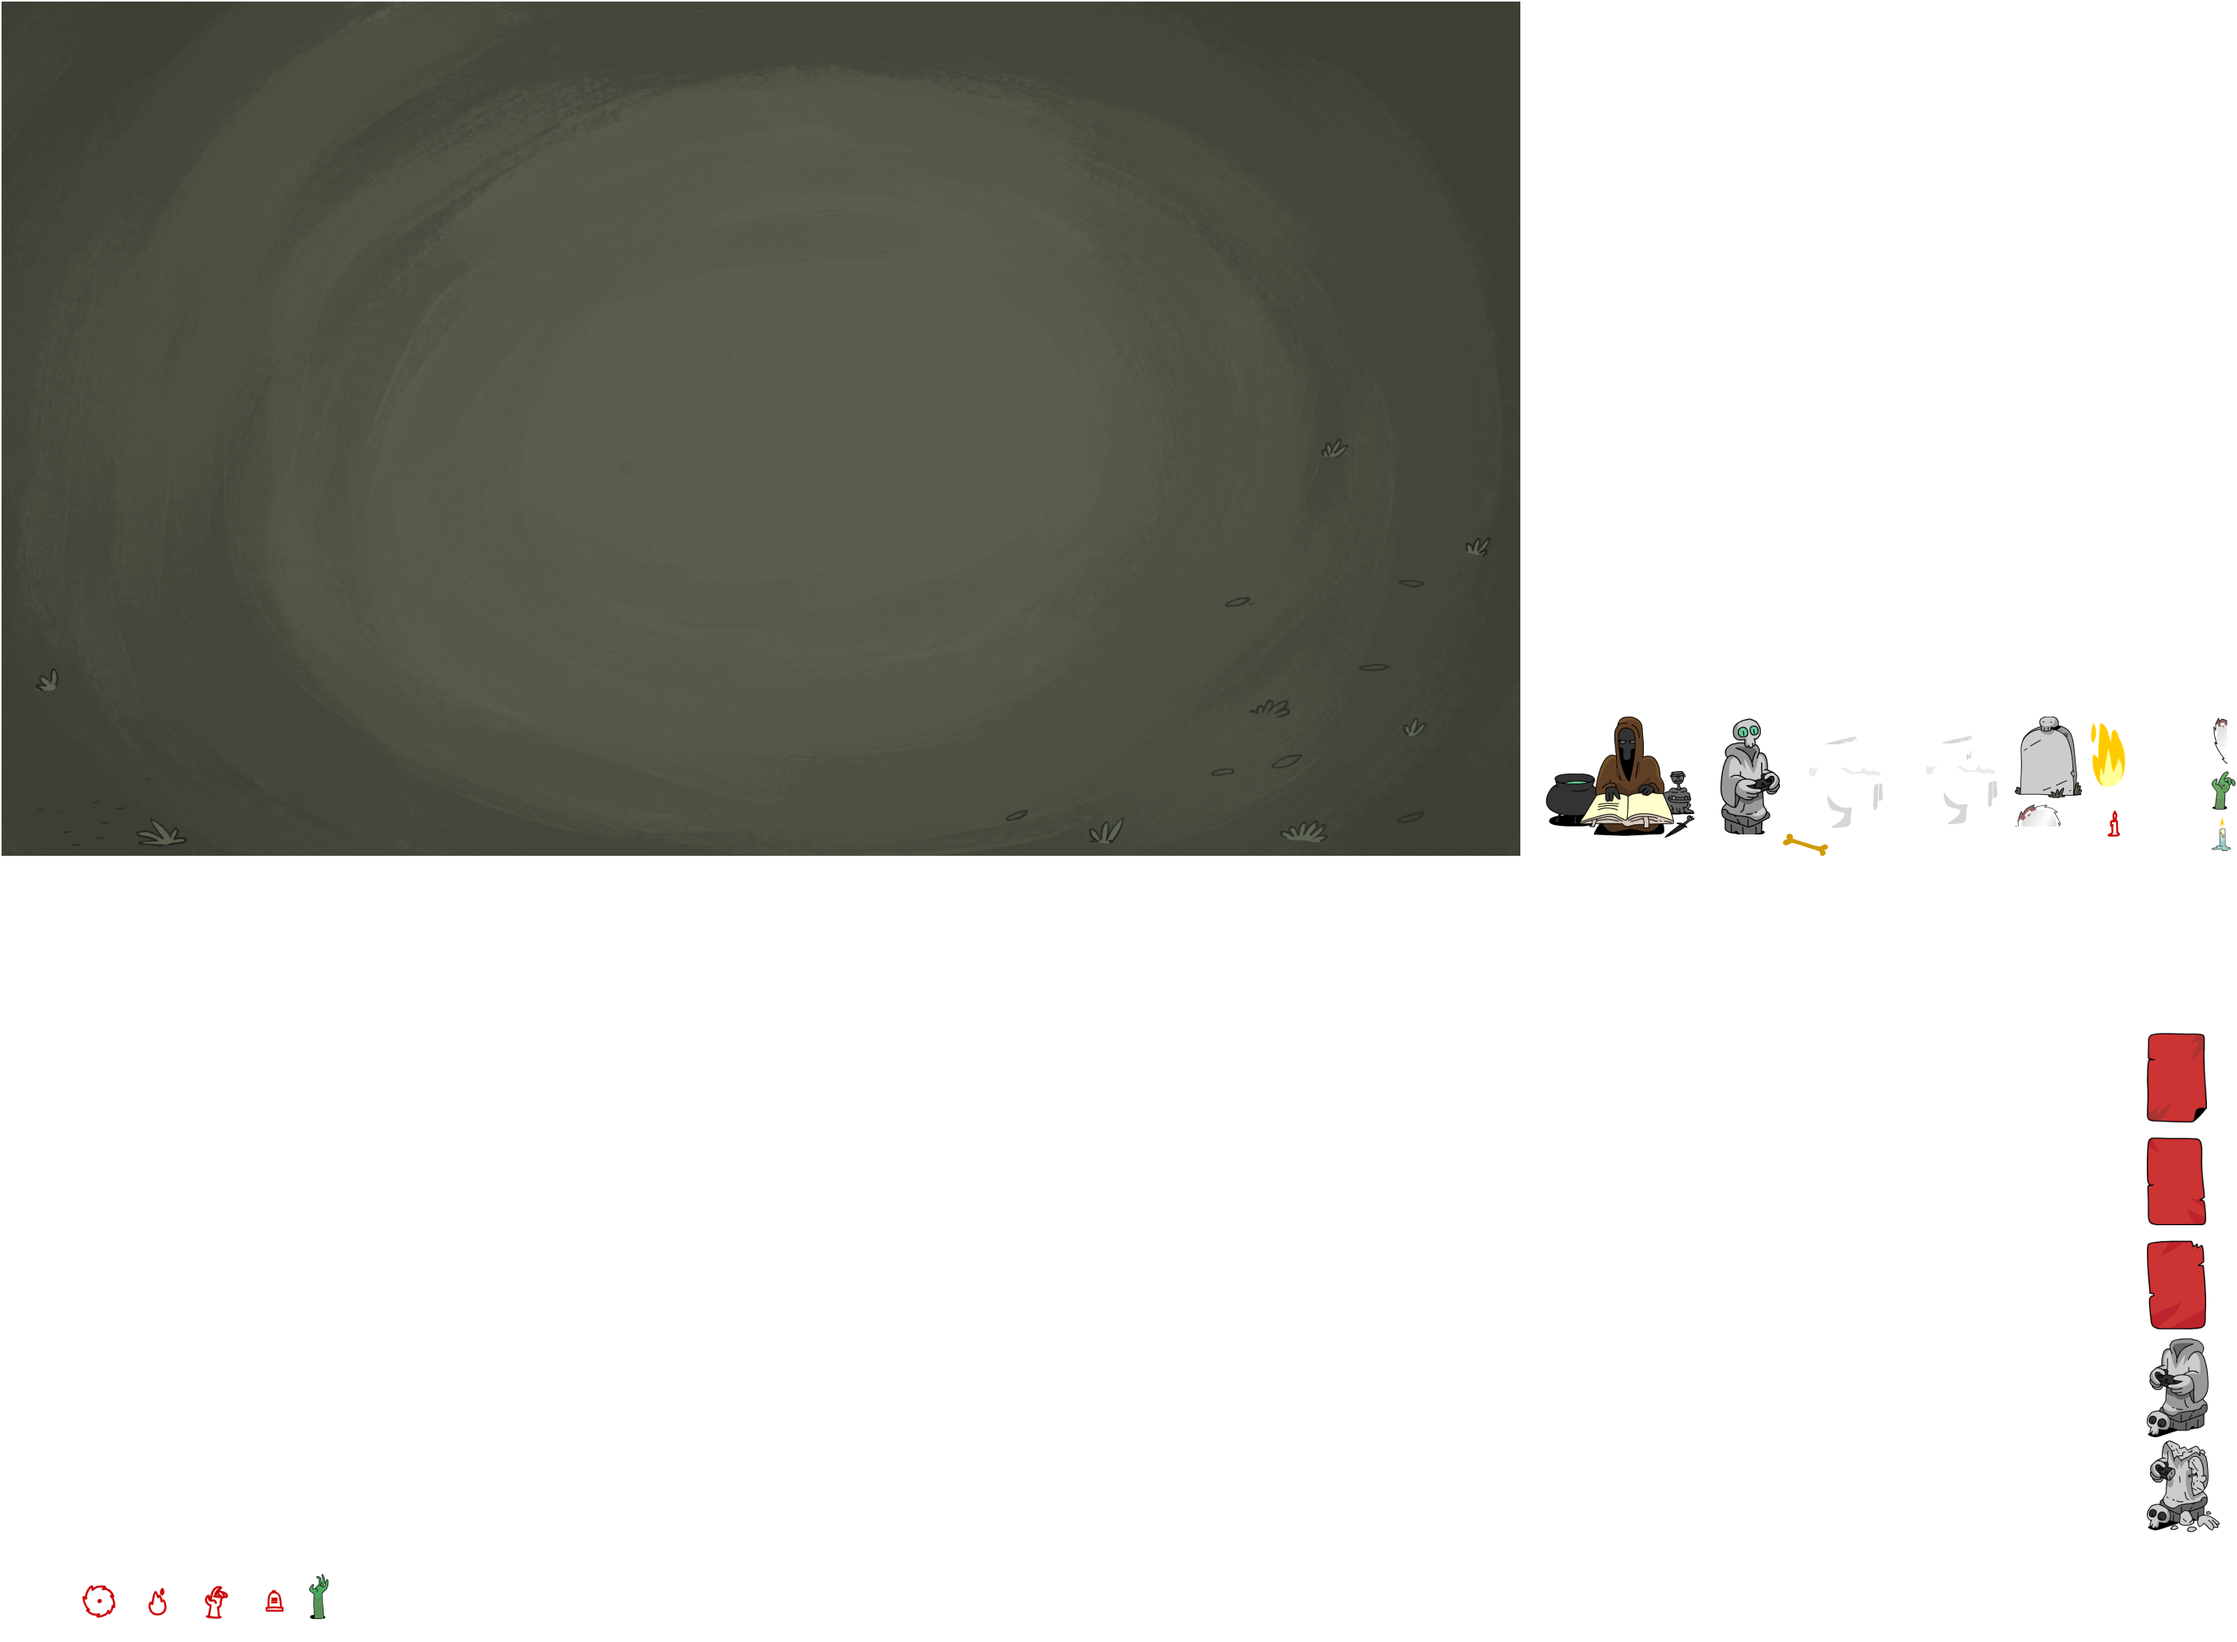
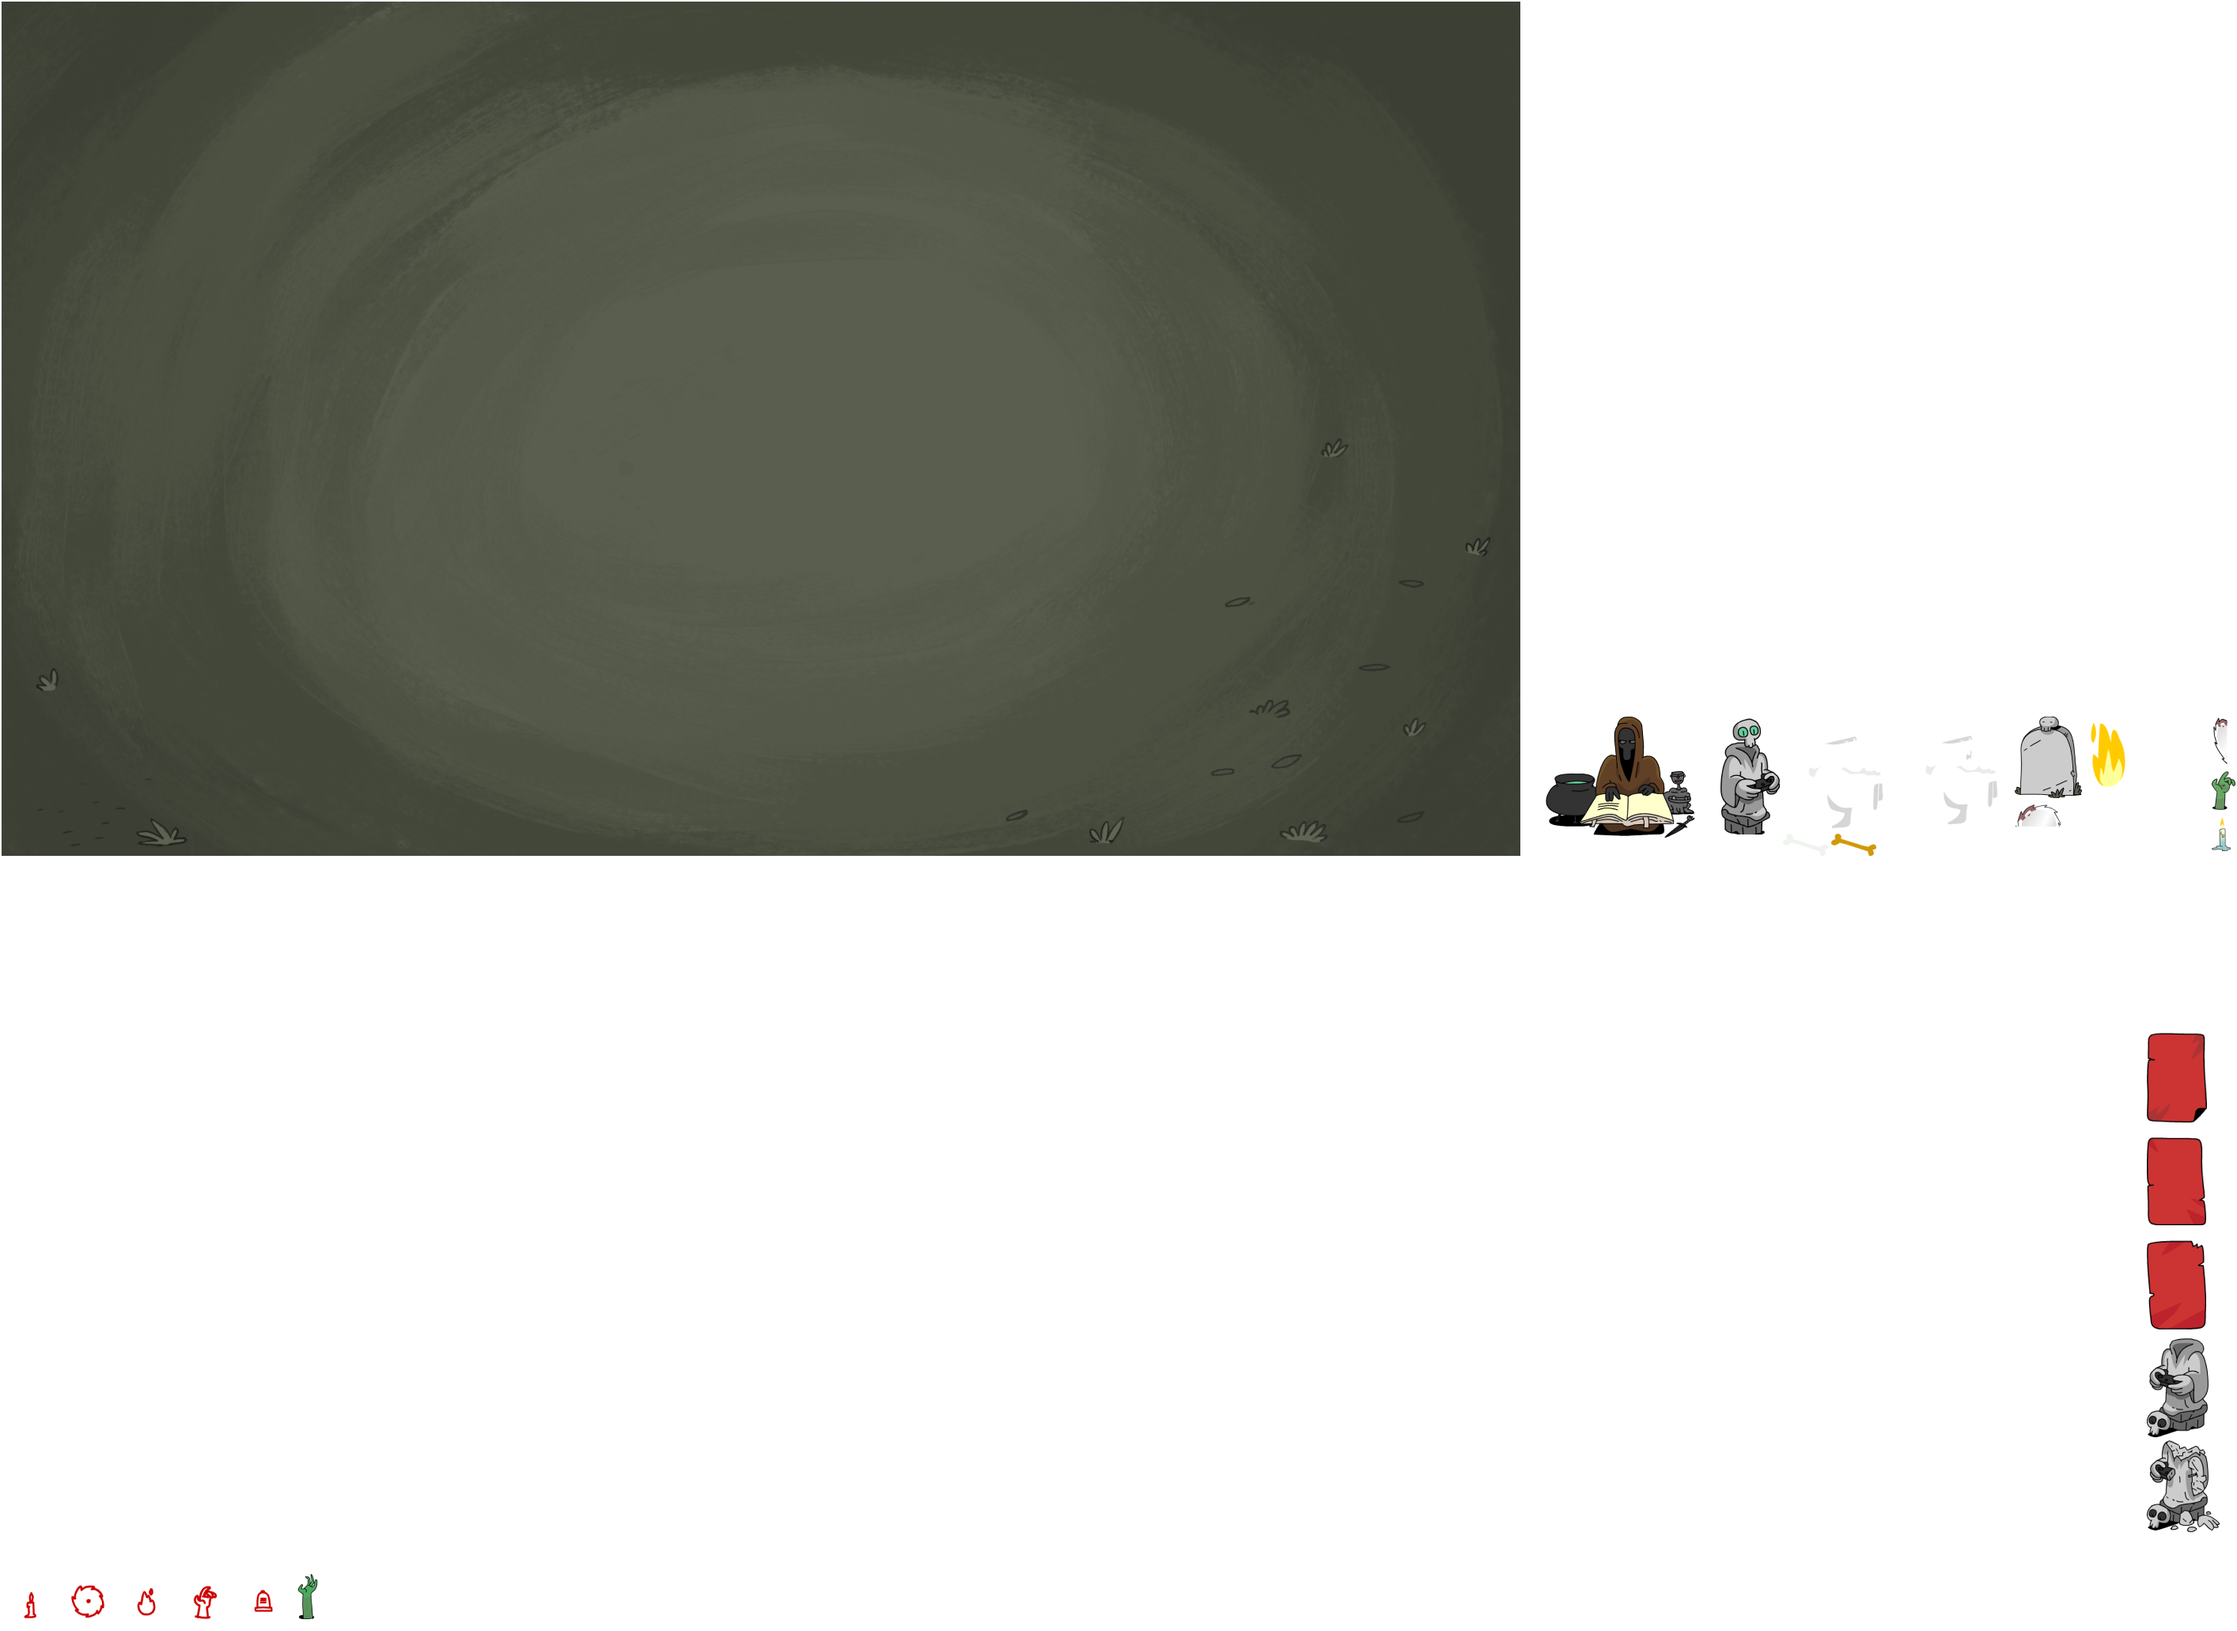
mvp

diff --git a/src/game/components/bone.ts b/src/game/components/bone.ts
@@ -1,0 +1,41 @@
+import { Actor, Entity, randomInRange, Sprite } from 'excalibur';
+import res from '@/res';
+import { Assets } from '@/game/resources/assets';
+import { TAGS } from '@/enums';
+import game from '@/game/game';
+import { easeInOutSine, lerp, random } from '@/game/utils';
+import type Statue from '@/game/components/statue';
+import type Stage from '@/game/scenes/Stage';
+import { bones } from '@/stores';
+
+export default class Bone extends Actor {
+	declare scene: Stage;
+
+	onInitialize() {
+		this.addTag(TAGS.Z_AXIS_SORT);
+		this.initGraphics();
+		this.moveToCaster();
+	}
+
+	private async moveToCaster() {
+		const startPos = this.pos.clone();
+		const caster = <Statue>(random.pickOne(<Entity[]>this.scene.world.queryTags([TAGS.STATUE]).entities));
+
+		await game.tween(progress => {
+			this.pos.x = lerp(startPos.x, caster.pos.x, easeInOutSine(progress));
+			this.pos.y = lerp(startPos.y, caster.pos.y, easeInOutSine(progress));
+		}, 500);
+
+		await game.tween(progress => {
+			this.graphics.opacity = 1 - easeInOutSine(progress);
+		}, 100);
+
+		bones.boneCollect();
+		this.kill();
+	}
+
+	private initGraphics() {
+		this.graphics.use(<Sprite>res.assets.getFrameSprite(Assets.BONE));
+		this.rotation = randomInRange(0, Math.PI * 2);
+	}
+}

diff --git a/src/game/components/bonus-bone.ts b/src/game/components/bonus-bone.ts
@@ -2,6 +2,7 @@ import { Actor, randomInRange, Sprite } from 'excalibur';
 import res from '@/res';
 import { Assets } from '@/game/resources/assets';
 import { TAGS } from '@/enums';
+import { bones } from '@/stores';
 
 export default class BonusBone extends Actor {
 	onInitialize() {
@@ -12,11 +13,14 @@ export default class BonusBone extends Actor {
 	}
 
 	private registerEvents() {
-		this.on('pointerdown', () => this.kill());
+		this.once('pointerdown', () => {
+			bones.bonusBoneCollect();
+			this.kill();
+		});
 	}
 
 	private initGraphics() {
-		this.graphics.use(<Sprite>res.assets.getFrameSprite(Assets.BONE));
+		this.graphics.use(<Sprite>res.assets.getFrameSprite(Assets.GOLDEN_BONE));
 		this.rotation = randomInRange(0, Math.PI * 2);
 	}
 }

diff --git a/src/stores.ts b/src/stores.ts
@@ -2,6 +2,7 @@ import { get, writable } from 'svelte/store';
 import { SvelteComponent } from 'svelte';
 import StartMenu from '@/ui/screens/StartMenu.svelte';
 import Game from '@/ui/screens/Game.svelte';
+import config from '@/config';
 
 export const screen = (() => {
 	const { subscribe, set } = writable<typeof SvelteComponent>();
@@ -64,5 +65,15 @@ export const constructionsPlaceAvailable = (() => {
 
 	return {
 		subscribe,
+	};
+})();
+
+export const bones = (() => {
+	const { subscribe, update } = writable(50);
+
+	return {
+		subscribe,
+		bonusBoneCollect: () => update(value => (value + config.stage.bonusBoneCost)),
+		boneCollect: () => update(value => (value + config.stage.boneCost)),
 	};
 })();

diff --git a/src/ui/components/Bones.svelte b/src/ui/components/Bones.svelte
@@ -2,21 +2,25 @@
 	import Sprite from '@/ui/components/Sprite.svelte';
 	import res from '@/res';
 	import { Assets } from '@/game/resources/assets';
+	import { bones } from '@/stores';
 </script>
 
-<div class='craft'>
+<div class='bones'>
+	<div class='counter'>{$bones}</div>
 	<Sprite sprite='{res.assets.getFrameSprite(Assets.BONES)}' />
 </div>
 
 <style lang='scss'>
-  .craft {
+  .bones {
     position: absolute;
     right: rem(40px);
     bottom: rem(40px);
+    display: flex;
+    align-items: center;
+    gap: rem(24px);
   }
 
-  ._craft-button {
-    width: rem(84px);
-    height: rem(84px);
+  .counter {
+    font-size: rem(40px);
   }
 </style>

diff --git a/src/game/components/character.ts b/src/game/components/character.ts
@@ -10,6 +10,7 @@ import { TAGS } from '@/enums';
 import type Stage from '@/game/scenes/Stage';
 import config from '@/config';
 import BonusBone from '@/game/components/bonus-bone';
+import Bone from '@/game/components/bone';
 
 export default class Character extends Actor {
 	declare scene: Stage;
@@ -85,6 +86,10 @@ export default class Character extends Actor {
 
 	private die() {
 		this.kill();
+
+		this.scene.add(new Bone({
+			pos: this.pos,
+		}));
 
 		if (random.bool(config.stage.bonusBone)) {
 			this.scene.add(new BonusBone({

diff --git a/src/config.ts b/src/config.ts
@@ -8,6 +8,8 @@ export default {
 		maxStageMobAmount: 16,
 		waveInterval: 1000,
 		bonusBone: 0.05,
+		bonusBoneCost: 10,
+		boneCost: 1,
 	},
 	character: {
 		minSpeed: 50,
@@ -16,9 +18,15 @@ export default {
 		maxHealth: 5,
 	},
 	objects: {
-		sawDamage: 1,
-		sawStrength: 5,
-		fireBallDamage: 2,
-		fireBallStrength: 3,
+		saw: {
+			damage: 1,
+			strength: 5,
+			cost: 10,
+		},
+		fireBall: {
+			damage: 2,
+			strength: 3,
+			cost: 15,
+		},
 	},
 };

diff --git a/src/game/components/objects/saw.ts b/src/game/components/objects/saw.ts
@@ -10,8 +10,8 @@ import DamageObject from '@/game/components/damage-object';
 import config from '@/config';
 
 export default class Saw extends DamageObject {
-	protected damageValue = config.objects.sawDamage;
-	protected strengthValue = config.objects.sawStrength;
+	protected damageValue = config.objects.saw.damage;
+	protected strengthValue = config.objects.saw.strength;
 	private startPos!: Vector;
 	private interval = 1500;
 	private speed = 1000;

diff --git a/src/game/components/objects/fireball.ts b/src/game/components/objects/fireball.ts
@@ -9,8 +9,8 @@ import DamageObject from '@/game/components/damage-object';
 import config from '@/config';
 
 export default class Fireball extends DamageObject {
-	protected damageValue = config.objects.fireBallDamage;
-	protected strengthValue = config.objects.fireBallStrength;
+	protected damageValue = config.objects.fireBall.damage;
+	protected strengthValue = config.objects.fireBall.strength;
 	private starPos!: Vector;
 	private speed = 8000;
 

diff --git a/src/ui/screens/Game.svelte b/src/ui/screens/Game.svelte
@@ -1,7 +1,7 @@
 <script lang='ts'>
 	import Screen from '@/ui/components/Screen.svelte';
 	import ConstructionsMenu from '@/ui/components/ConstructionsMenu.svelte';
-	import CraftButton from '@/ui/components/CraftButton.svelte';
+	import CraftButton from '@/ui/components/Bones.svelte';
 	import CraftMenu from '@/ui/components/CraftMenu.svelte';
 </script>
 

diff --git a/src/game/components/statue.ts b/src/game/components/statue.ts
@@ -12,6 +12,8 @@ export default class Statue extends Actor {
 	onInitialize() {
 		this.addTag(TAGS.Z_AXIS_SORT);
 		this.addTag(TAGS.TARGET);
+		this.addTag(TAGS.STATUE);
+
 		this.initGraphics();
 	}
 

diff --git a/src/game/resources/assets.ts b/src/game/resources/assets.ts
@@ -28,6 +28,7 @@ export enum Assets {
 	'CARDS__EMPTY__1' = 'cards/empty/1',
 	'CANDLES__1' = 'candles/1',
 	'BONES' = 'bones',
+	'GOLDEN_BONE' = 'golden-bone',
 	'BONE' = 'bone',
 	'BG' = 'bg'
 }

diff --git a/src/enums.ts b/src/enums.ts
@@ -30,4 +30,5 @@ export enum TAGS {
 	MOB = 'mob',
 	Z_AXIS_SORT = 'zAxisSort',
 	TARGET = 'target',
+	STATUE = 'statue',
 }
